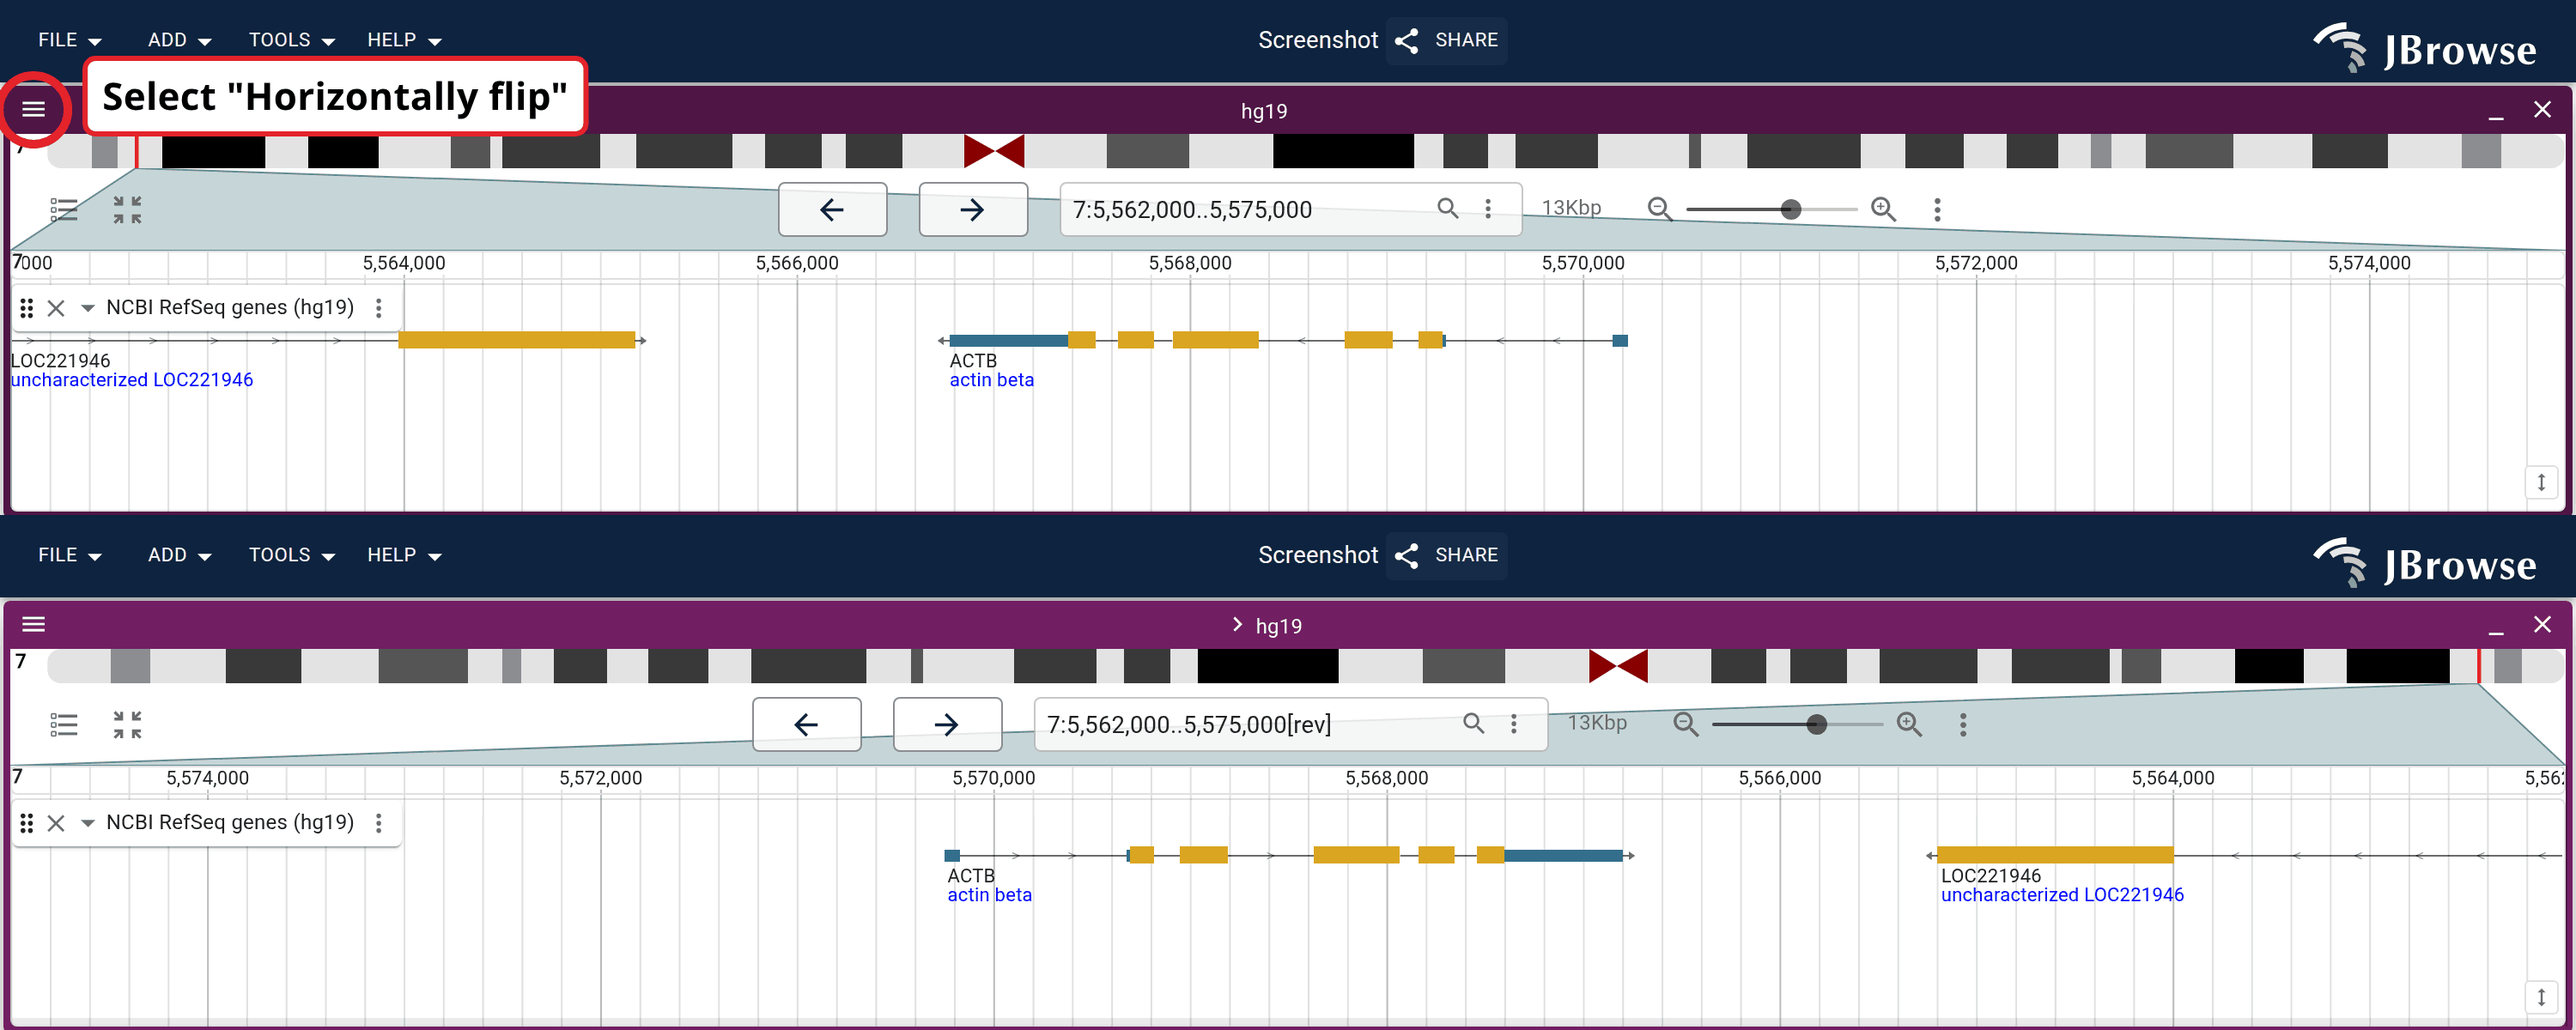
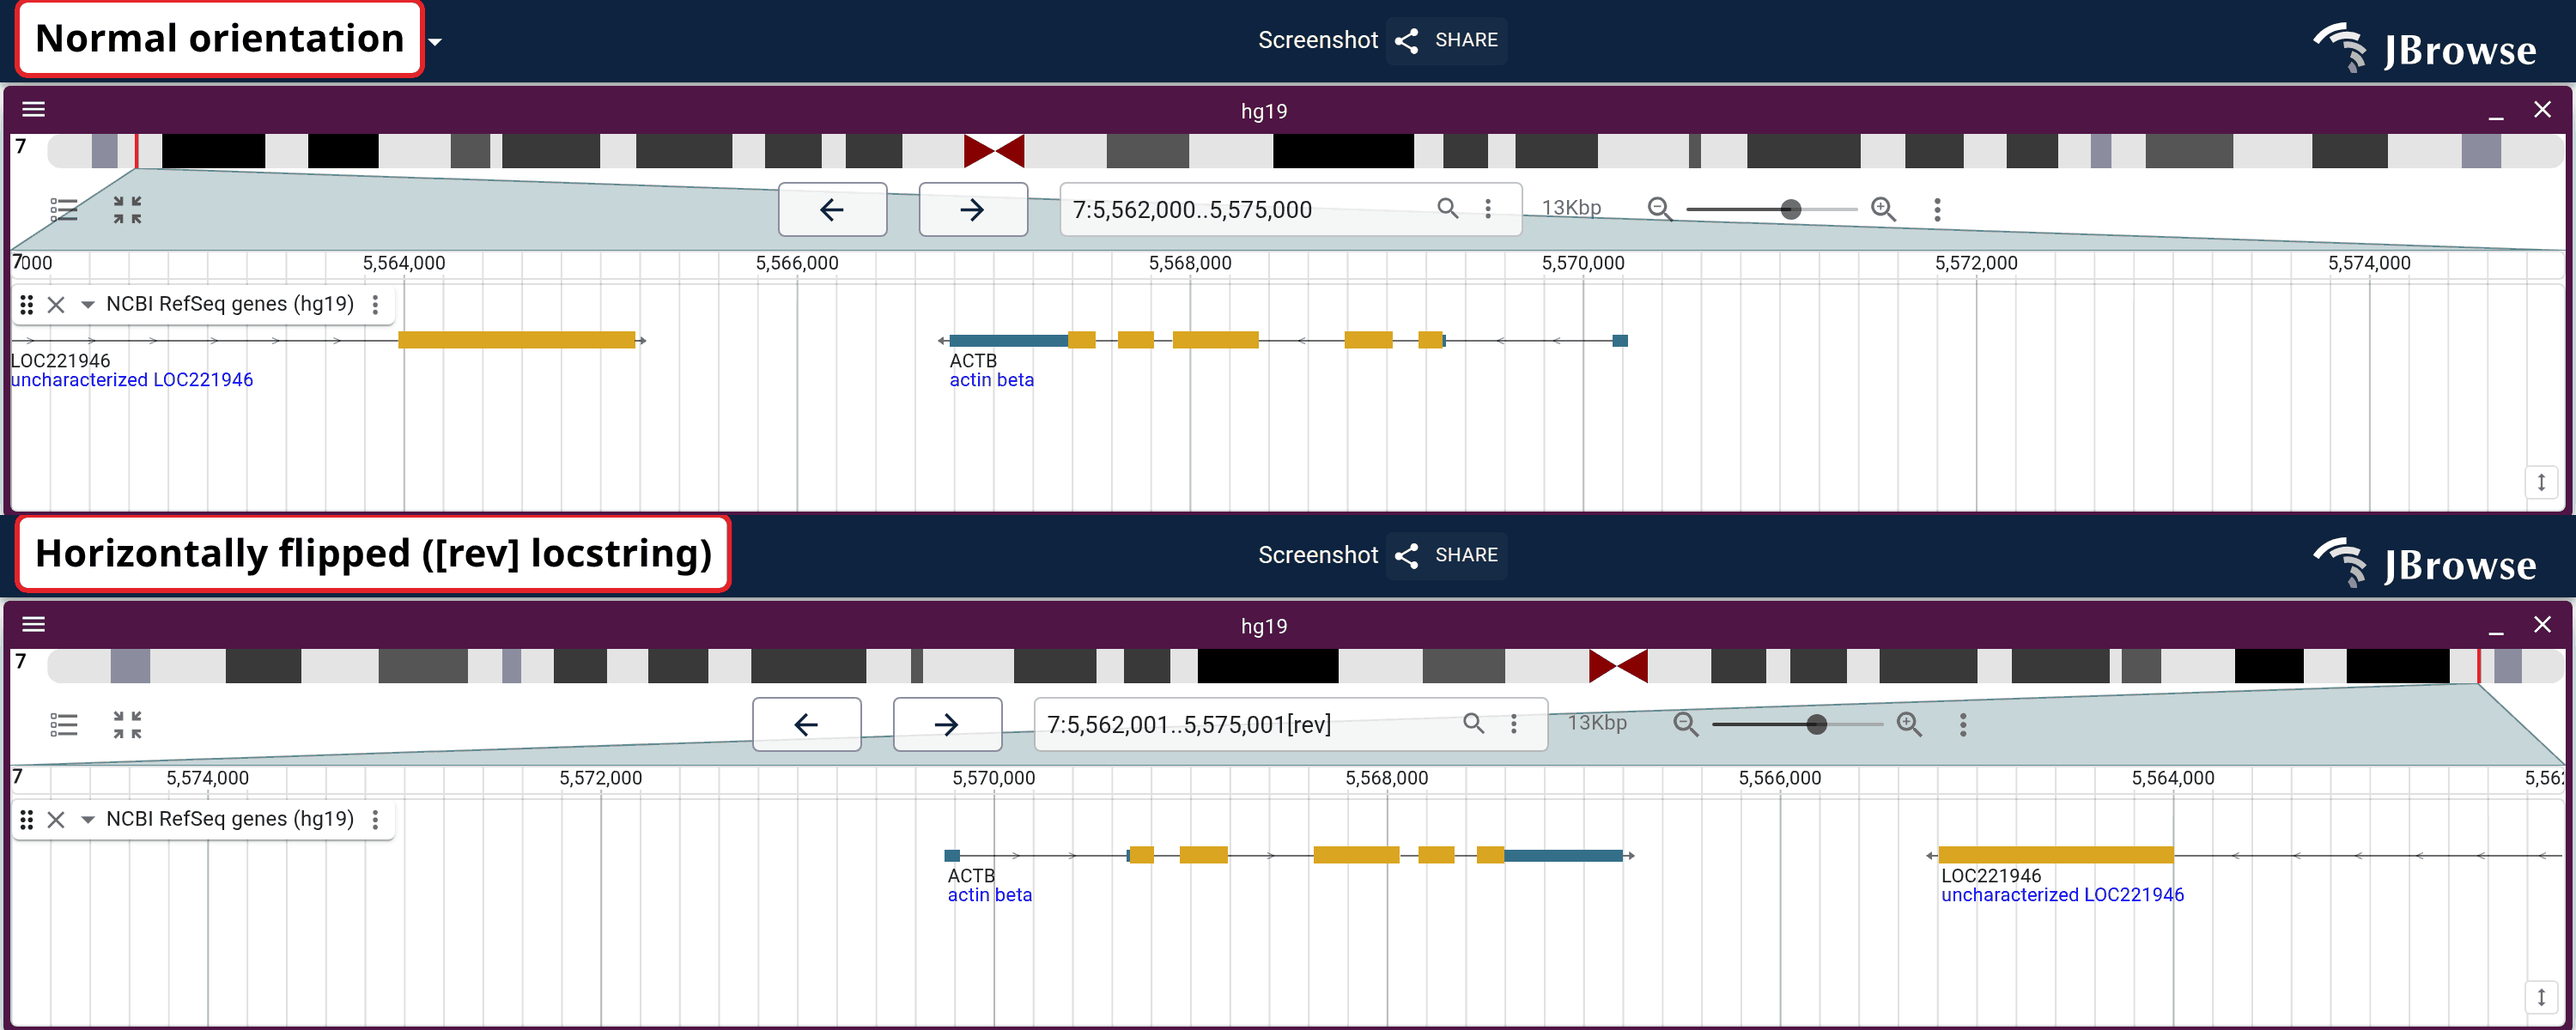
docs(website): make horizontal-flip figure two live linked states
Split the single imperative capture (menu-driven flip, one PNG) into
two independent declarative specs differing only by a [rev] locstring,
composed into the same stacked image. The doc figure and gallery card
now link directly to each state instead of one being reachable only by
replaying a UI action.

diff --git a/website/src/lib/galleryLinks.generated.ts b/website/src/lib/galleryLinks.generated.ts
@@ -135,7 +135,8 @@ export const specSessionUrls: Record<string, string> = {
   "scatac/alb_hepatocyte": "?config=test_data/config_demo.json&session=spec-%7B%22views%22%3A%5B%7B%22assembly%22%3A%22hg38%22%2C%22loc%22%3A%22chr4%3A73%2C390%2C000-73%2C435%2C000%22%2C%22type%22%3A%22LinearGenomeView%22%2C%22tracks%22%3A%5B%7B%22trackId%22%3A%22ncbi_refseq_109_hg38_latest%22%2C%22type%22%3A%22LinearBasicDisplay%22%2C%22displayMode%22%3A%22compact%22%2C%22showOnlyGenes%22%3Atrue%2C%22height%22%3A60%7D%2C%7B%22trackId%22%3A%22catlas_scatac_celltypes_hg38%22%2C%22type%22%3A%22MultiLinearWiggleDisplay%22%2C%22height%22%3A430%7D%5D%7D%5D%7D&sessionName=Screenshot",
   "sv_inspector_importform_loaded": "?config=test_data/config_demo.json&session=spec-%7B%22views%22%3A%5B%7B%22type%22%3A%22SvInspectorView%22%2C%22assembly%22%3A%22hg19%22%2C%22uri%22%3A%22https%3A%2F%2Fjbrowse.org%2Fgenomes%2Fhg19%2FSKBR3%2Freads_lr_skbr3.fa_ngmlr-0.2.3_mapped.bam.sniffles1kb_auto_l8_s5_noalt.filtered.vcf.gz%22%7D%5D%7D&sessionName=Screenshot",
   "sv_inspector_importform_filtered": "?config=test_data/config_demo.json&session=spec-%7B%22views%22%3A%5B%7B%22type%22%3A%22SvInspectorView%22%2C%22assembly%22%3A%22hg19%22%2C%22uri%22%3A%22https%3A%2F%2Fjbrowse.org%2Fgenomes%2Fhg19%2FSKBR3%2Freads_lr_skbr3.fa_ngmlr-0.2.3_mapped.bam.sniffles1kb_auto_l8_s5_noalt.filtered.vcf.gz%22%7D%5D%7D&sessionName=Screenshot",
-  "horizontally_flip": "?config=test_data/config_demo.json&session=spec-%7B%22views%22%3A%5B%7B%22type%22%3A%22LinearGenomeView%22%2C%22assembly%22%3A%22hg19%22%2C%22loc%22%3A%22chr7%3A5%2C562%2C000-5%2C575%2C000%22%2C%22tracks%22%3A%5B%7B%22trackId%22%3A%22ncbi_gff_hg19%22%2C%22type%22%3A%22LinearBasicDisplay%22%2C%22geneGlyphMode%22%3A%22longestCoding%22%7D%5D%7D%5D%7D&sessionName=Screenshot",
+  "horizontally_flip_before": "?config=test_data/config_demo.json&session=spec-%7B%22views%22%3A%5B%7B%22type%22%3A%22LinearGenomeView%22%2C%22assembly%22%3A%22hg19%22%2C%22loc%22%3A%22chr7%3A5%2C562%2C000-5%2C575%2C000%22%2C%22tracks%22%3A%5B%7B%22trackId%22%3A%22ncbi_gff_hg19%22%2C%22type%22%3A%22LinearBasicDisplay%22%2C%22geneGlyphMode%22%3A%22longestCoding%22%7D%5D%7D%5D%7D&sessionName=Screenshot",
+  "horizontally_flip_after": "?config=test_data/config_demo.json&session=spec-%7B%22views%22%3A%5B%7B%22type%22%3A%22LinearGenomeView%22%2C%22assembly%22%3A%22hg19%22%2C%22loc%22%3A%22chr7%3A5%2C562%2C000-5%2C575%2C000%5Brev%5D%22%2C%22tracks%22%3A%5B%7B%22trackId%22%3A%22ncbi_gff_hg19%22%2C%22type%22%3A%22LinearBasicDisplay%22%2C%22geneGlyphMode%22%3A%22longestCoding%22%7D%5D%7D%5D%7D&sessionName=Screenshot",
   "cnv": "?config=test_data/config_demo.json&session=spec-%7B%22sessionTracks%22%3A%5B%7B%22type%22%3A%22MultiQuantitativeTrack%22%2C%22trackId%22%3A%22colo829_cnv_coverage%22%2C%22name%22%3A%22COLO829%20tumor%2Fnormal%20coverage%22%2C%22assemblyNames%22%3A%5B%22hg19%22%5D%2C%22adapter%22%3A%7B%22type%22%3A%22MultiWiggleAdapter%22%2C%22subadapters%22%3A%5B%7B%22type%22%3A%22BigWigAdapter%22%2C%22source%22%3A%22COLO829%20tumor%22%2C%22color%22%3A%22%23e41a1c%22%2C%22bigWigLocation%22%3A%7B%22uri%22%3A%22https%3A%2F%2Fjbrowse.org%2Fgenomes%2Fhg19%2FCOLO829%2Fcolo_tumor.bw%22%2C%22locationType%22%3A%22UriLocation%22%7D%7D%2C%7B%22type%22%3A%22BigWigAdapter%22%2C%22source%22%3A%22COLO829%20normal%22%2C%22color%22%3A%22%23377eb8%22%2C%22bigWigLocation%22%3A%7B%22uri%22%3A%22https%3A%2F%2Fjbrowse.org%2Fgenomes%2Fhg19%2FCOLO829%2Fcolo_normal.bw%22%2C%22locationType%22%3A%22UriLocation%22%7D%7D%5D%7D%7D%5D%2C%22views%22%3A%5B%7B%22type%22%3A%22LinearGenomeView%22%2C%22assembly%22%3A%22hg19%22%2C%22displayedRegionNames%22%3A%5B%221%22%2C%222%22%2C%223%22%2C%224%22%2C%225%22%2C%226%22%2C%227%22%2C%228%22%2C%229%22%2C%2210%22%2C%2211%22%2C%2212%22%2C%2213%22%2C%2214%22%2C%2215%22%2C%2216%22%2C%2217%22%2C%2218%22%2C%2219%22%2C%2220%22%2C%2221%22%2C%2222%22%2C%22X%22%2C%22Y%22%5D%2C%22tracks%22%3A%5B%7B%22trackId%22%3A%22colo829_cnv_coverage%22%2C%22type%22%3A%22MultiLinearWiggleDisplay%22%2C%22autoscale%22%3A%22localsd%22%2C%22numStdDev%22%3A3%2C%22defaultRendering%22%3A%22multiscatter%22%2C%22resolution%22%3A50%2C%22scatterPointSize%22%3A1%7D%5D%7D%5D%7D&sessionName=Screenshot",
   "smalldel": "?config=test_data/config_demo.json&session=spec-%7B%22sessionTracks%22%3A%5B%7B%22type%22%3A%22AlignmentsTrack%22%2C%22trackId%22%3A%22hg002_nanopore_hp%22%2C%22name%22%3A%22HG002%20ONT%22%2C%22assemblyNames%22%3A%5B%22hg19%22%5D%2C%22adapter%22%3A%7B%22type%22%3A%22BamAdapter%22%2C%22bamLocation%22%3A%7B%22uri%22%3A%22https%3A%2F%2Fftp-trace.ncbi.nlm.nih.gov%2Fgiab%2Fftp%2Fdata%2FAshkenazimTrio%2FHG002_NA24385_son%2FUltralong_OxfordNanopore%2Fcombined_2018-08-10%2FHG002_ONTrel2_16x_RG_HP10xtrioRTG.cram.bam%22%2C%22locationType%22%3A%22UriLocation%22%7D%2C%22index%22%3A%7B%22location%22%3A%7B%22uri%22%3A%22https%3A%2F%2Fftp-trace.ncbi.nlm.nih.gov%2Fgiab%2Fftp%2Fdata%2FAshkenazimTrio%2FHG002_NA24385_son%2FUltralong_OxfordNanopore%2Fcombined_2018-08-10%2FHG002_ONTrel2_16x_RG_HP10xtrioRTG.cram.bam.bai%22%2C%22locationType%22%3A%22UriLocation%22%7D%2C%22indexType%22%3A%22BAI%22%7D%7D%7D%5D%2C%22views%22%3A%5B%7B%22type%22%3A%22LinearGenomeView%22%2C%22assembly%22%3A%22hg19%22%2C%22loc%22%3A%221%3A63%2C005%2C675-63%2C007%2C432%22%2C%22tracks%22%3A%5B%22variants_hg002%22%2C%7B%22trackId%22%3A%22hg002_nanopore_hp%22%2C%22type%22%3A%22LinearAlignmentsDisplay%22%2C%22height%22%3A400%2C%22forceLoad%22%3Atrue%2C%22groupBy%22%3A%7B%22type%22%3A%22tag%22%2C%22tag%22%3A%22HP%22%7D%2C%22colorBy%22%3A%7B%22type%22%3A%22tag%22%2C%22tag%22%3A%22HP%22%7D%7D%5D%7D%5D%7D&sessionName=Screenshot",
   "alignment_clipping_indicators": "?config=test_data/volvox/config.json&session=spec-%7B%22views%22%3A%5B%7B%22type%22%3A%22LinearGenomeView%22%2C%22assembly%22%3A%22volvox%22%2C%22loc%22%3A%22ctgA%3A2%2C560-2%2C760%22%2C%22tracks%22%3A%5B%7B%22trackId%22%3A%22volvox-long-reads-sv-bam%22%2C%22type%22%3A%22LinearAlignmentsDisplay%22%2C%22coverageHeight%22%3A120%7D%5D%7D%5D%7D&sessionName=Screenshot",

diff --git a/website/scripts/specs/sv.ts b/website/scripts/specs/sv.ts
@@ -98,15 +98,16 @@ export const svSpecs: ScreenshotSpec[] = [
     ],
   },
 
-  // Before/after horizontal flip, stacked into one figure: top frame is the
-  // normal orientation, bottom frame after the view-menu "Horizontally flip"
-  // (reverse complement) — the gene arrows and overview triangles reverse
-  // direction. Rebuilt from the old server-side share link as a self-contained
-  // sessionSpec over the hg19 ACTB locus (single longest-coding transcript so the
-  // strand arrow reads clearly).
+  // Before/after horizontal flip, as two independent declarative sessions
+  // composed into one figure: the "after" state is just the same locus with a
+  // `[rev]` locstring, so both halves are directly openable live links rather
+  // than one state being reachable only by driving the view menu. Rebuilt from
+  // the old server-side share link as a self-contained sessionSpec over the
+  // hg19 ACTB locus (single longest-coding transcript so the strand arrow reads
+  // clearly).
   {
     mode: 'url',
-    name: 'horizontally_flip',
+    name: 'horizontally_flip_before',
     url: lgvSession(DEMO_CONFIG, {
       assembly: 'hg19',
       loc: 'chr7:5,562,000-5,575,000',
@@ -123,39 +124,42 @@ export const svSpecs: ScreenshotSpec[] = [
     settleMs: 8000,
     // trim the empty viewport below the single track
     crop: { x: 0, y: 0, width: 1500, height: 300 },
-    stages: [
+    annotations: [
+      { type: 'text', x: 20, y: 30, fontSize: 22, text: 'Normal orientation' },
+    ],
+  },
+  {
+    mode: 'url',
+    name: 'horizontally_flip_after',
+    url: lgvSession(DEMO_CONFIG, {
+      assembly: 'hg19',
+      loc: 'chr7:5,562,000-5,575,000[rev]',
+      tracks: [
+        {
+          trackId: 'ncbi_gff_hg19',
+          type: 'LinearBasicDisplay',
+          geneGlyphMode: 'longestCoding',
+        },
+      ],
+    }),
+    readyText: 'ACTB',
+    readyTimeout: 60000,
+    settleMs: 8000,
+    crop: { x: 0, y: 0, width: 1500, height: 300 },
+    annotations: [
       {
-        // top frame: normal orientation, with the view-menu icon ringed and a
-        // callout telling the reader to select "Horizontally flip" from it
-        actions: [{ type: 'delay', ms: 500 }],
-        annotations: [
-          {
-            type: 'circle',
-            anchor: { selector: '[data-testid="view_menu_icon"]' },
-          },
-          {
-            type: 'text',
-            text: 'Select "Horizontally flip"',
-            anchor: { selector: '[data-testid="view_menu_icon"]' },
-            dx: 40,
-            dy: 0,
-            background: 'rgba(0,0,0,0.78)',
-            textColor: '#fff',
-          },
-        ],
-      },
-      {
-        // bottom frame: after the view-menu "Horizontally flip" the gene arrows /
-        // overview triangles reverse direction. The menu auto-closes on click so
-        // it never appears in the result frame.
-        actions: [
-          { type: 'click', selector: '[data-testid="view_menu_icon"]' },
-          { type: 'waitForText', text: 'Horizontally flip' },
-          { type: 'click', text: 'Horizontally flip' },
-          { type: 'delay', ms: 3000 },
-        ],
+        type: 'text',
+        x: 20,
+        y: 30,
+        fontSize: 22,
+        text: 'Horizontally flipped ([rev] locstring)',
       },
     ],
+  },
+  {
+    mode: 'compose',
+    name: 'horizontally_flip',
+    parts: ['horizontally_flip_before', 'horizontally_flip_after'],
   },
 
   // Whole-genome CNV: COLO829 melanoma tumor vs matched normal coverage as a

diff --git a/website/src/lib/gallery.ts b/website/src/lib/gallery.ts
@@ -377,12 +377,11 @@ export const gallerySections: readonly GallerySection[] = [
     items: [
       {
         label: 'Horizontally flipped view',
+        // `horizontally_flip` (the compose parent, for the stacked card image)
+        // has no url of its own; open the flipped half directly since that's the
+        // state the figure teaches.
         spec: 'horizontally_flip',
-        // the spec's base capture is the un-flipped top frame (the figure flips
-        // via a capture-time menu action); open the flipped end-state directly
-        // with a [rev] locstring so the live view shows what the figure teaches
-        session:
-          '?config=test_data/config_demo.json&session=spec-{"views":[{"type":"LinearGenomeView","assembly":"hg19","loc":"chr7:5,562,000-5,575,000[rev]","tracks":[{"trackId":"ncbi_gff_hg19","displaySnapshot":{"type":"LinearBasicDisplay","geneGlyphMode":"longestCoding"}}]}]}',
+        session: specSessionUrls.horizontally_flip_after,
         description:
           'The whole view mirrored so coordinates run right-to-left and a reverse-strand gene (here ACTB) reads left-to-right in its own 5′→3′ direction. Reads, sequence, and annotations flip with it, and the location box records the state as a [rev] locstring.',
       },

diff --git a/website/docs/user_guides/basic_usage.md b/website/docs/user_guides/basic_usage.md
@@ -262,7 +262,7 @@ The view can be horizontally flipped (reverse complemented), reversing the
 coordinate direction. Triangles in the overview bar indicate the current
 orientation.
 
-<Figure caption="Before and after horizontally flipping." src="/img/horizontally_flip.png" />
+<Figure caption="Before and after horizontally flipping." src="/img/horizontally_flip.png" links="Normal orientation=horizontally_flip_before,Flipped=horizontally_flip_after" />
 
 ### Drawer widget position
 
